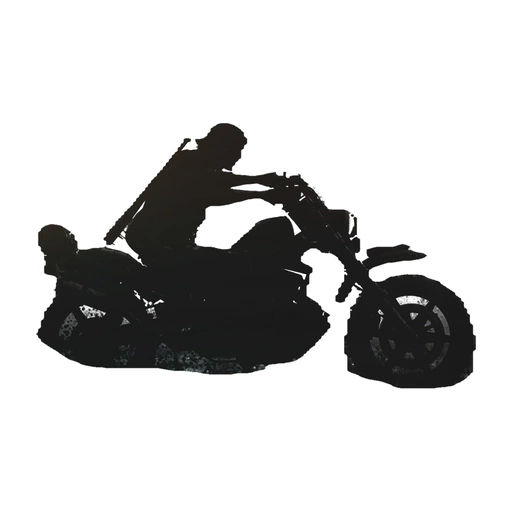
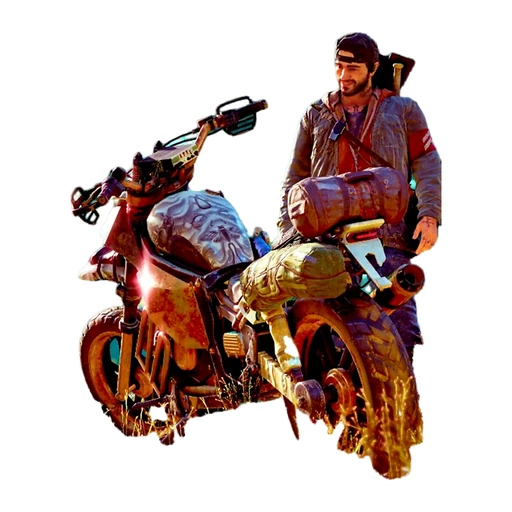
feat: sync expanded sticker collection and clearer cutouts
- Expand the collage to 72 stickers with source attribution.
- Include readable Alexander and Deacon motorcycle replacements while preserving public privacy behavior.

diff --git a/public/index.html b/public/index.html
@@ -116,6 +116,16 @@
       <button class="footer-sticker" type="button" aria-label="逃离鸭科夫：装备鸭贴纸"><img src="/dashboard/stickers/60.webp" alt="" width="512" height="512" loading="lazy" decoding="async" draggable="false"></button>
       <button class="footer-sticker footer-sticker--accent" type="button" aria-label="马里奥赛车：蓝龟壳贴纸"><img src="/dashboard/stickers/61.webp" alt="" width="512" height="512" loading="lazy" decoding="async" draggable="false"></button>
       <button class="footer-sticker footer-sticker--accent" type="button" aria-label="塞尔达传说：时之笛贴纸"><img src="/dashboard/stickers/62.webp" alt="" width="512" height="512" loading="lazy" decoding="async" draggable="false"></button>
+      <button class="footer-sticker" type="button" aria-label="空洞骑士：小骑士贴纸"><img src="/dashboard/stickers/63.webp" alt="" width="512" height="512" loading="lazy" decoding="async" draggable="false"></button>
+      <button class="footer-sticker footer-sticker--accent" type="button" aria-label="喷射战士：墨灵鱿鱼贴纸"><img src="/dashboard/stickers/64.webp" alt="" width="512" height="512" loading="lazy" decoding="async" draggable="false"></button>
+      <button class="footer-sticker footer-sticker--accent" type="button" aria-label="皮克敏：红黄蓝皮克敏贴纸"><img src="/dashboard/stickers/65.webp" alt="" width="512" height="512" loading="lazy" decoding="async" draggable="false"></button>
+      <button class="footer-sticker" type="button" aria-label="女神异闻录 5：摩尔加纳贴纸"><img src="/dashboard/stickers/66.webp" alt="" width="512" height="512" loading="lazy" decoding="async" draggable="false"></button>
+      <button class="footer-sticker footer-sticker--accent" type="button" aria-label="传送门：同伴方块贴纸"><img src="/dashboard/stickers/67.webp" alt="" width="512" height="512" loading="lazy" decoding="async" draggable="false"></button>
+      <button class="footer-sticker footer-sticker--accent" type="button" aria-label="塞尔达传说：克洛格贴纸"><img src="/dashboard/stickers/68.webp" alt="" width="512" height="512" loading="lazy" decoding="async" draggable="false"></button>
+      <button class="footer-sticker" type="button" aria-label="宝可梦：耿鬼贴纸"><img src="/dashboard/stickers/69.webp" alt="" width="512" height="512" loading="lazy" decoding="async" draggable="false"></button>
+      <button class="footer-sticker" type="button" aria-label="艾尔登法环：壶哥亚历山大贴纸"><img src="/dashboard/stickers/70.webp" alt="" width="512" height="512" loading="lazy" decoding="async" draggable="false"></button>
+      <button class="footer-sticker" type="button" aria-label="初代 PlayStation 主机贴纸"><img src="/dashboard/stickers/71.webp" alt="" width="512" height="512" loading="lazy" decoding="async" draggable="false"></button>
+      <button class="footer-sticker" type="button" aria-label="Game Boy Color 主机贴纸"><img src="/dashboard/stickers/72.webp" alt="" width="512" height="512" loading="lazy" decoding="async" draggable="false"></button>
     </div>
     <div class="footer-meta">
       <button id="scheme-toggle" type="button" aria-label="切换深浅模式" title="切换深浅模式"></button>

diff --git a/public/dashboard/style.css b/public/dashboard/style.css
@@ -294,6 +294,16 @@ h2{font-size:clamp(1.25rem,2.5vw,1.7rem);line-height:1.2;letter-spacing:-.025em}
 .footer-sticker:nth-child(60){--x:72%;--y:56%;--mx:84%;--my:52%;--r:-15deg;--d:96ms;z-index:9}
 .footer-sticker:nth-child(61){--x:20%;--y:85%;--mx:62%;--my:13%;--r:18deg;--d:216ms;z-index:9}
 .footer-sticker:nth-child(62){--x:97%;--y:83%;--mx:86%;--my:86%;--r:-24deg;--d:144ms;z-index:9}
+.footer-sticker:nth-child(63){--x:35%;--y:12%;--mx:35%;--my:35%;--r:12deg;--d:72ms;z-index:9}
+.footer-sticker:nth-child(64){--x:58%;--y:57%;--mx:87%;--my:40%;--r:-19deg;--d:168ms;z-index:9}
+.footer-sticker:nth-child(65){--x:79%;--y:91%;--mx:38%;--my:67%;--r:9deg;--d:24ms;z-index:9}
+.footer-sticker:nth-child(66){--x:21%;--y:57%;--mx:17%;--my:68%;--r:-12deg;--d:144ms;z-index:9}
+.footer-sticker:nth-child(67){--x:7%;--y:11%;--mx:12%;--my:23%;--r:23deg;--d:216ms;z-index:8}
+.footer-sticker:nth-child(68){--x:85%;--y:11%;--mx:60%;--my:53%;--r:-8deg;--d:48ms;z-index:9}
+.footer-sticker:nth-child(69){--x:97%;--y:43%;--mx:73%;--my:96%;--r:16deg;--d:192ms;z-index:9}
+.footer-sticker:nth-child(70){--x:47%;--y:93%;--mx:58%;--my:84%;--r:-17deg;--d:96ms;z-index:8}
+.footer-sticker:nth-child(71){--x:63%;--y:8%;--mx:46%;--my:4%;--r:14deg;--d:120ms;z-index:3}
+.footer-sticker:nth-child(72){--x:2%;--y:65%;--mx:9%;--my:76%;--r:-23deg;--d:240ms;z-index:4}
 @property --float{syntax:"<number>";inherits:false;initial-value:1}
 @media(prefers-reduced-motion:no-preference){
   .footer-collage.is-armed .footer-sticker{opacity:var(--float);transform:translate(calc(-50% + var(--drag-x,0px)),calc(-50% + var(--drag-y,0px) + var(--reveal-travel,64px) * (1 - var(--float)))) rotate(calc(var(--r,0deg) - var(--reveal-twist,5deg) * (1 - var(--float)))) scale(calc(.94 + .06 * var(--float)))}

diff --git a/README.md b/README.md
@@ -15,7 +15,7 @@ On Vercel Hobby, select your **personal GitHub account**, not an organization. C
 - Browse and search the cover-first game library. Unified platform rows combine player identity, activity, game counts, and sync status without a separate header.
 - Classic follows the system light/dark setting until an explicit choice is saved. Footer controls switch color schemes and Classic, Pixel, or Neon City themes; preferences persist per browser. The [Dissolve](https://dissolve.rselmi.com/)-inspired filters, rolling totals, and pagination respect reduced motion.
 - Footer stickers use native scroll-driven transform and opacity animations when `ViewTimeline` is available, with a JavaScript fallback for older browsers. Dragged stickers remain independent of the reveal; reduced motion disables it.
-- The footer includes 62 hardware, character, and item stickers in a layered desktop/mobile collage. Artwork credits and rights information are listed in [`credits.json`](public/dashboard/stickers/credits.json).
+- The footer includes 72 hardware, character, and item stickers in a layered desktop/mobile collage, including clearer Alexander and Deacon-with-motorcycle cutouts. Artwork credits and rights information are listed in [`credits.json`](public/dashboard/stickers/credits.json).
 - Drag stickers anywhere on the page with lift, tilt, and edge auto-scroll. Keyboard controls also move stickers; Enter resets their position.
 - See a game once even when multiple platform records match. Progress remains separate per platform.
 - Steam achievements, PlayStation trophies, and Xbox achievements/Gamerscore stay separate. Nintendo contributes play history; Epic contributes claimed PC base games and reported playtime, not achievements.
